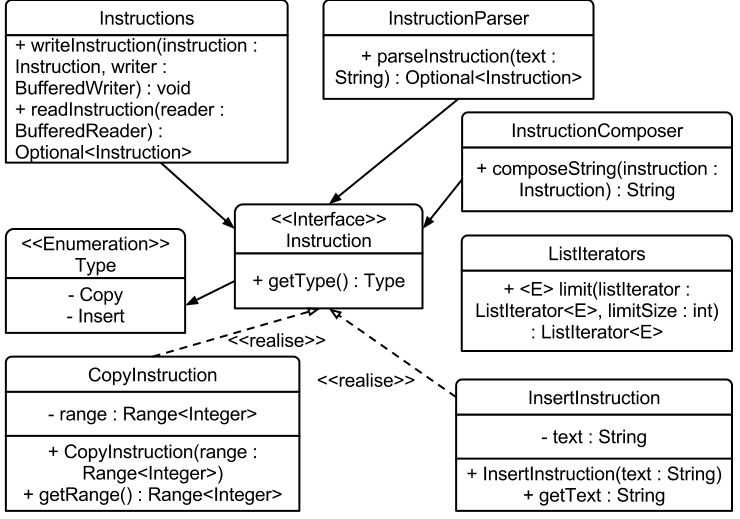
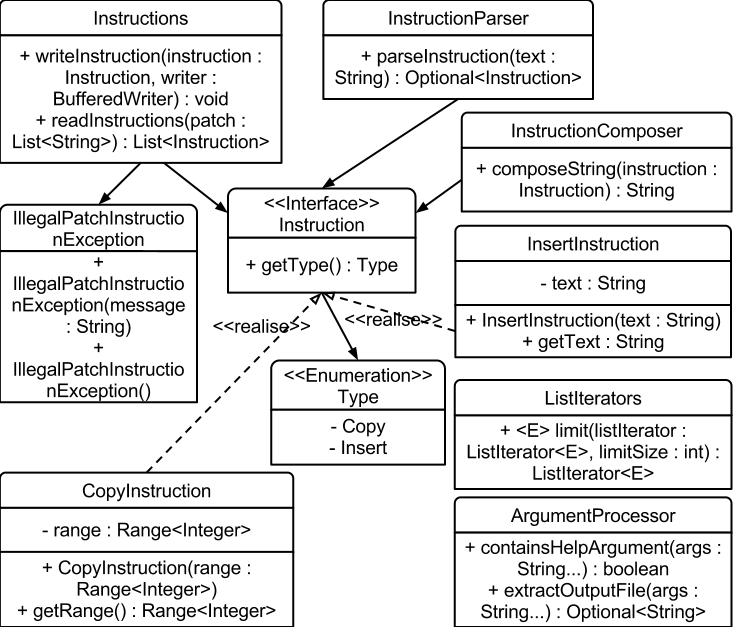
closes #11: Add UML diagram to the report. * Added patch, diff and packages diagrams. * Updated util diagram.

diff --git a/design/design.tex b/design/design.tex
@@ -4,7 +4,7 @@ Here we will discuss the design of the system.
 
 \subsection{UML Diagram}
 
-Here are the UML diagrams for each module in the system, and one to show the interactions between them.
+Below are the UML diagrams for each module in the system, and one to show the interactions between them.
 
 \begin{figure}[H]
 \begin{center}
@@ -20,6 +20,30 @@ Here are the UML diagrams for each module in the system, and one to show the int
 \end{center}
 \caption{UML diagram for the SuffixTree module.}
 \label{fig:suffixTreeUML}
+\end{figure}
+
+\begin{figure}[H]
+\begin{center}
+\includegraphics[width=\textwidth]{design/diffrUML-diffR.png}
+\end{center}
+\caption{UML diagram for the DiffR module.}
+\label{fig:diffrUML}
+\end{figure}
+
+\begin{figure}[H]
+\begin{center}
+\includegraphics[width=\textwidth]{design/diffrUML-patchR.png}
+\end{center}
+\caption{UML diagram for the PatchR module.}
+\label{fig:patchrUML}
+\end{figure}
+
+\begin{figure}[H]
+\begin{center}
+\includegraphics[width=\textwidth]{design/diffrUML-packages.png}
+\end{center}
+\caption{UML diagram to show module interaction.}
+\label{fig:packagesUML}
 \end{figure}
 
 
